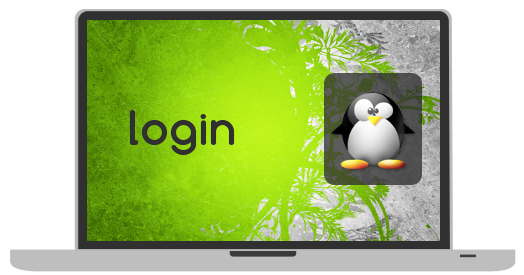
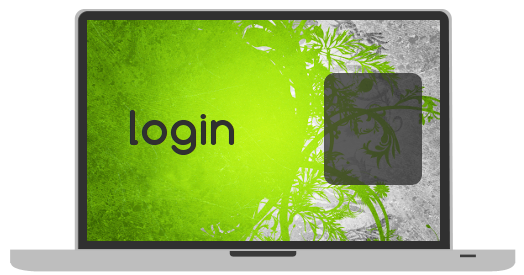
tux image is now dynamically loaded instead of printed directly on the laptop image

Changed region(s): [[0.6107, 0.32, 0.7939, 0.64]]

diff --git a/src/const.h b/src/const.h
@@ -25,7 +25,7 @@
 #define LOCALESDIR "/usr/share/i18n/locales"
 #define TZ_DATA_FILE "/usr/share/zoneinfo/zone.tab"
 #define XKB_FILE "/usr/share/X11/xkb/rules/base.lst"
-#define USER_IMAGES_PATH "/usr/share/backgrounds"
+#define USER_IMAGES_PATH "/usr/share/pixmaps/faces"
 
 
 #endif // CONST_H

diff --git a/src/pages/page_userimage.cpp b/src/pages/page_userimage.cpp
@@ -31,6 +31,7 @@ Page_UserImage::Page_UserImage() :
     setHelpURL("");
 
     ui->userImageLayout->addWidget(&imageWidget);
+    imageWidget.setImage(QImage(":/images/resources/tux.png"));
 
     connect(&imageWidget, SIGNAL(clicked()) ,   this, SLOT(imageWidget_clicked()));
 }
